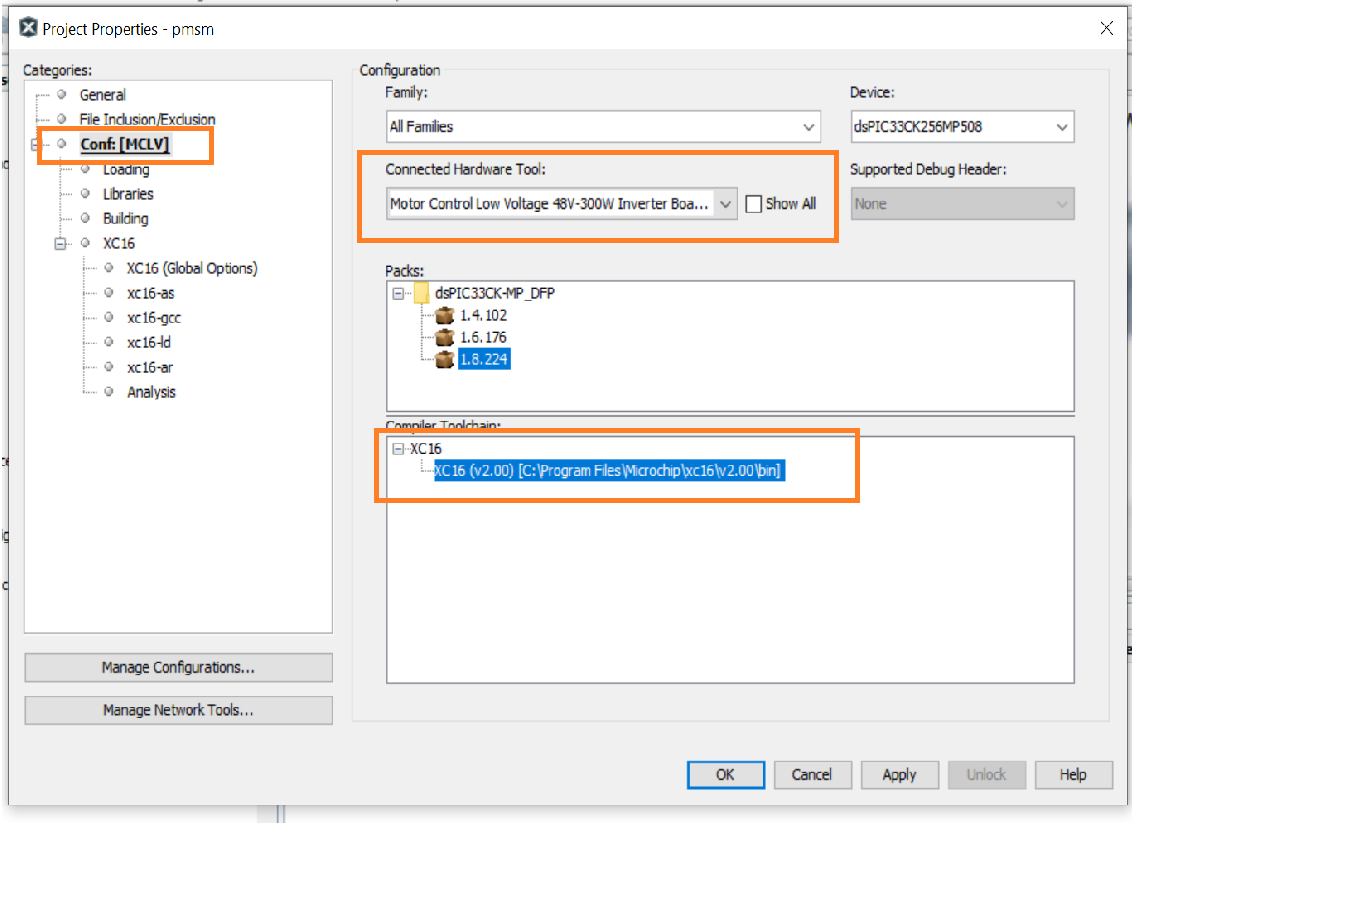
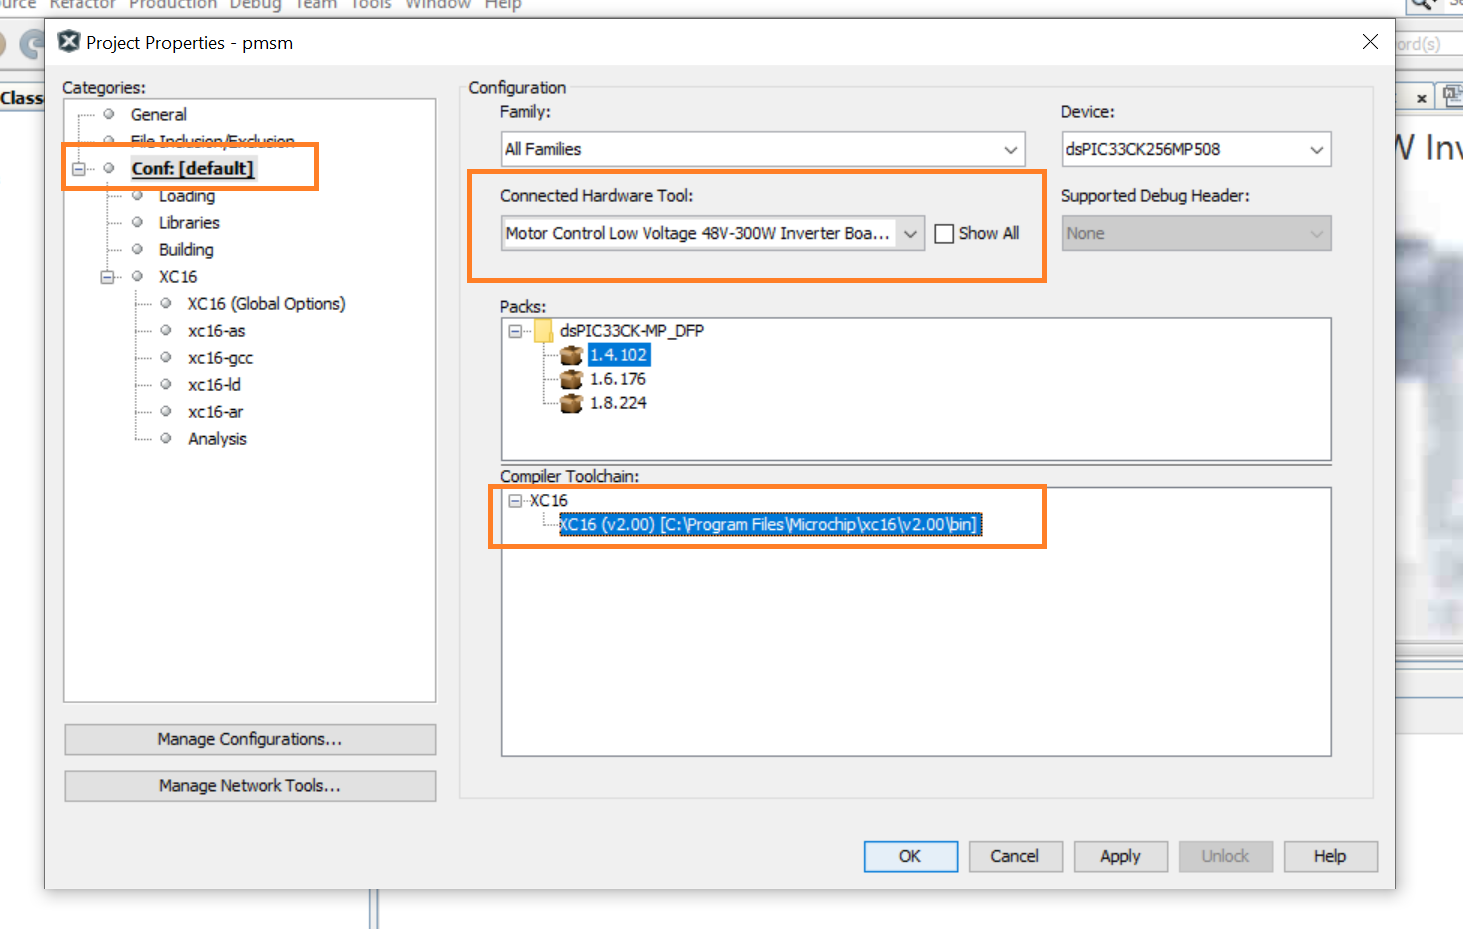
Made changes to readme file

Changed region(s): [[0.0, 0.0, 1.0, 1.0], [0.3387, 0.7467, 0.7698, 0.8089], [0.2771, 0.7467, 0.3079, 0.7778]]

diff --git a/README.md b/README.md
@@ -19,7 +19,7 @@ PMSM needs accurate info about rotor flux angle (position). This can be achieved
 ## Hardware Connection and Running the Demo Code
 
 ## Motor Control Application Firmware Required for the Demonstration
-To clone or download this application from Github, go to the [main page of this repository](https://github.com/microchip-pic-avr-solutions/lvmc-dspic33ck256mp508-an1078) and then click Clone button to clone this repository or download as zip file.
+To clone or download this application from Github, go to the [main page of this repository](https://github.com/microchip-pic-avr-solutions/mclv-48v-300w-an1078) and then click Clone button to clone this repository or download as zip file.
 
 ## Software Tools Used for Testing the firmware
 - MPLAB® X IDE v5.50 or later
@@ -43,9 +43,8 @@ If the amplifiers that are internal to the dsPIC33CK256MP508 are used, then that
 
 1. <p style='text-align: justify;'>Perform the following modifications based upon amplifier configuration. By default, Board is configured for Internal OP-AMP Configuration.</p>
 
-    - For running the motor in internal op amp configuration make sure that resistors R125, R133, R141 are populated and R121, R129, R137 are unpopulated. Also ensure internal amplifiers are configured and enabled.
-    - For running the motor in external amp configuration make sure that resistors R121, 
-      R129, R137 are populated and R125, R133, R141 are unpopulated. Also disable internal amplifiers in the firmware.
+    - For running the motor in internal op amp configuration make sure that resistors R9, R29, R14 are populated and R6, R25, R10 are unpopulated on the DIM. Also ensure internal amplifiers are configured and enabled.
+    - For running the motor in external amp configuration make sure that resistors R6, R25, R10  are populated and  R9, R29, R14 on the  DIM are unpopulated. Also disable internal amplifiers in the firmware.
 
 
 2. Motor currents are amplified on the MCLV-48V-300W Inverter Board. The firmware and DIM are configured to sample and convert external amplifier outputs to measure the motor currents needed to implement FOC.</p> 
@@ -179,9 +178,9 @@ Follow below instructions step by step to setup and run the motor control demo a
  <p align = "center"><font size="2"> Figure 12  Single Shunt Configuration
 </p>
   
-6. <p style='text-align: justify;'>Right click on the project pmsm.X and select “Properties” to open its Project Properties Dialog. Click the “Conf: [MCLV]” category to reveal the general project configuration information.</p>
+6. <p style='text-align: justify;'>Right click on the project pmsm.X and select “Properties” to open its Project Properties Dialog.</p>
 
-    In the ‘Conf: [MCLV3]’ category window: 
+    In the ‘Conf: [default]’ category window: 
     - Select the specific Compiler Toolchain from the available list of compilers. Please ensure MPLAB® XC16 Compiler supports the device dsPIC33CK256MP508. In this case “XC16(v1.70)” is selected. The compiler used for testing the firmware is listed in the section Software Tools Used for Testing the firmware.
     - Select the Hardware Tool to be used for programming and debugging. In this case, “MPLAB PKoB 4” is the selected programmer.
     - After selecting Hardware Tool and Compiler Toolchain, click button Apply
@@ -228,10 +227,6 @@ The application firmware comes with initialization required to interface Control
 
 2. <p style='text-align: justify;'>To utilize X2C communication for this demonstration, a micro-USB connection is required between Host PC and dsPIC33CK MCLV-48V-300W Inverter Board. PKoB 4 Connector J13 can be used to communicate between Host PC and dsPIC33CK MCLV-48V-300W Inverter Board, alternatively Connect a micro-USB cable from your computer to the J6 connector of the dsPIC33CK MCLV-48V-300W Inverter Board.</p>
 
- <p align="center">
-  <img  src="images/x2cinterface.png"></p>
- <p align = "center"><font size="2"> Figure 16  X2C Interface
-</p>
 
 3.	<p style='text-align: justify;'>Ensure application is configured and running as described under Section Basic Demonstration by following steps 1 through 12.</p>
 
@@ -332,6 +327,7 @@ For additional information, refer following documents or links.
 6. MPLAB® X IDE User’s Guide (DS50002027) or MPLAB® X IDE help
 7. MPLAB® X IDE installation
 8. MPLAB® XC16 Compiler installation
+
 
 
 
